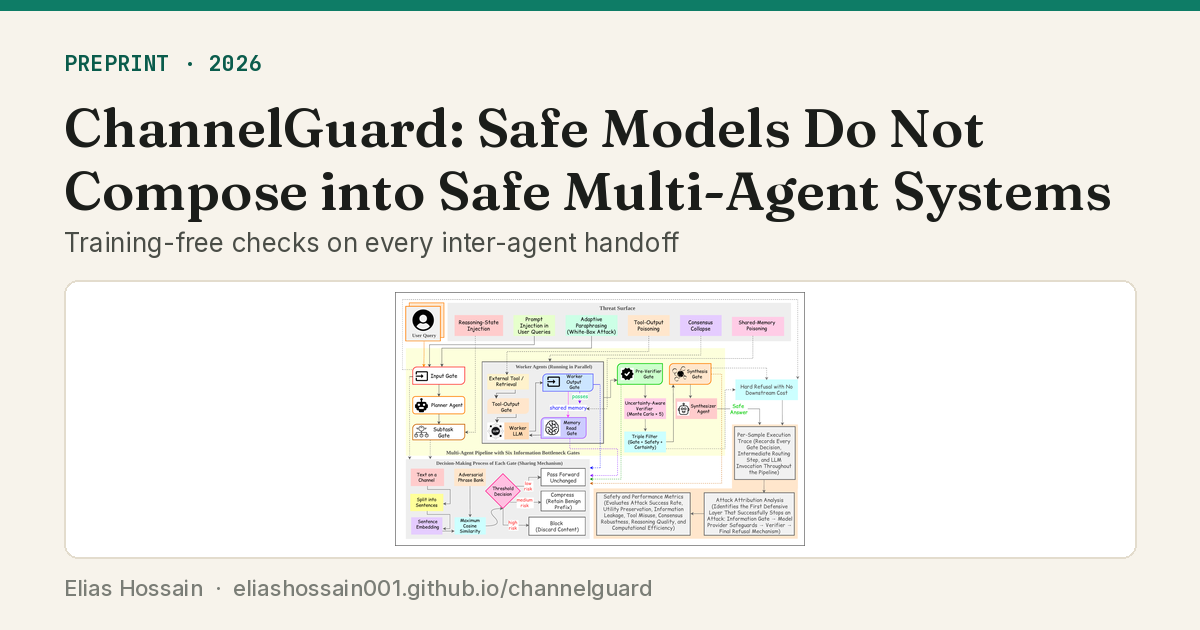
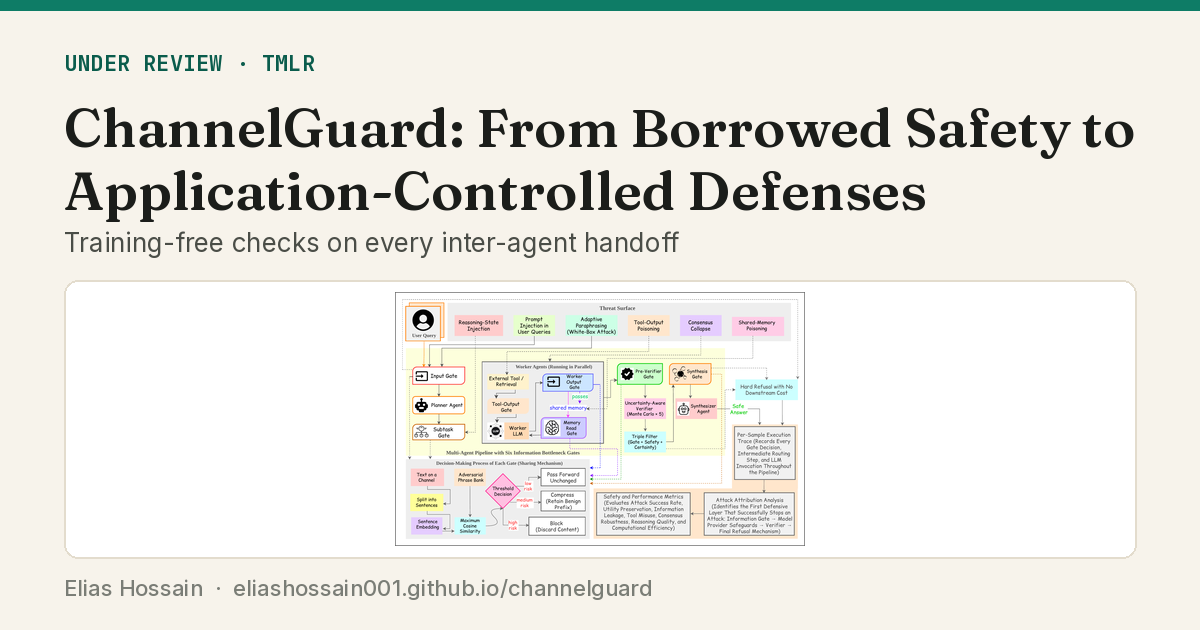
Use UCF email; ChannelGuard title/status match arXiv and CV; arXiv link for Agreement Overstates Evidence

Changed region(s): [[0.0308, 0.1508, 0.9558, 0.3619], [0.0617, 0.0905, 0.2775, 0.1206]]

diff --git a/assets/askr/askr.js b/assets/askr/askr.js
@@ -12,7 +12,7 @@
     { id: 'overview', k: ['research', 'about', 'work on', 'focus', 'interest', 'area', 'topic', 'what does he do', 'summary', 'overview', 'agenda', 'thesis'],
       a: 'Elias works on <b>reliable AI at inference time</b>: methods that make deployed LLMs, LLM judges, and agents trustworthy <b>without retraining them</b>, and careful tests of when that reliability is real. His work has three threads: (1) whether a model knows when it is wrong (uncertainty and calibration), (2) whether agreement among AI judges is real evidence (LLM evaluation), and (3) whether an agent can be stopped before an unsafe action (agent safety). His applied area is clinical and biomedical AI.' },
     { id: 'papers', k: ['paper', 'papers', 'publication', 'publications', 'first-author', 'first author', 'recent', 'published', 'accepted', 'venue', 'conference'],
-      a: 'Recent first-author papers:<br>&bull; <a href="/poe-steering/">When Policies Cannot Be Retrained</a> (<b>NeurIPS 2026</b>, Main Track)<br>&bull; <a href="/uat-lite/">UAT-LITE</a> (<b>EACL 2027</b>, Main Conference)<br>&bull; <a href="/nexus/">NEXUS</a> (Findings of AACL-IJCNLP 2026)<br>&bull; <a href="/Automatic-Jury-Consensus/">Agreement Overstates Evidence</a> (under review)<br>&bull; <a href="/channelguard/">ChannelGuard</a> and <a href="/tas/">Right Knowledge, Wrong Answer</a> (preprints)<br>The full list is on <a href="https://scholar.google.com/citations?user=l0L1NPAAAAAJ" target="_blank" rel="noopener">Google Scholar</a>.' },
+      a: 'Recent first-author papers:<br>&bull; <a href="/poe-steering/">When Policies Cannot Be Retrained</a> (<b>NeurIPS 2026</b>, Main Track)<br>&bull; <a href="/uat-lite/">UAT-LITE</a> (<b>EACL 2027</b>, Main Conference)<br>&bull; <a href="/nexus/">NEXUS</a> (Findings of AACL-IJCNLP 2026)<br>&bull; <a href="/Automatic-Jury-Consensus/">Agreement Overstates Evidence</a> (under review)<br>&bull; <a href="/channelguard/">ChannelGuard</a> (under review at TMLR) and <a href="/tas/">Right Knowledge, Wrong Answer</a> (preprint)<br>The full list is on <a href="https://scholar.google.com/citations?user=l0L1NPAAAAAJ" target="_blank" rel="noopener">Google Scholar</a>.' },
     { id: 'poe', k: ['policies cannot be retrained', 'poe', 'product of experts', 'steering', 'offline rl', 'reinforcement learning', 'frozen policy', 'frozen actor', 'kl', 'robot', 'neurips paper', 'neurips', 'nips'],
       a: '<b>When Policies Cannot Be Retrained</b> (NeurIPS 2026, Main Track) steers a frozen offline-RL policy toward a new goal at deployment, with no retraining. Composing the frozen actor with a goal-conditioned prior as a product of experts gives exactly the same policy as KL-regularized adaptation. Its value is graceful degradation: when the guidance is bad, the policy stays anchored to the original behaviour instead of collapsing. Across 12 benchmark settings it helped in 4, changed nothing in 4, and hurt in 4. <a href="/poe-steering/">Project page</a> &middot; <a href="https://neurips.cc/virtual/2026/loc/atlanta/poster/152992" target="_blank" rel="noopener">poster &amp; slides</a>' },
     { id: 'uat', k: ['uat', 'uat-lite', 'uncertainty', 'calibration', 'eacl', 'calibrated', 'confidence', 'mc dropout', 'monte carlo', 'attention', 'overconfident', 'eacl paper'],
@@ -22,7 +22,7 @@
     { id: 'nexus', k: ['nexus', 'tool', 'tool-using', 'tool use', 'runtime', 'guardrail', 'monitor', 'agent safety', 'unsafe action', 'prompt injection', 'aacl'],
       a: '<b>NEXUS</b> (Findings of AACL-IJCNLP 2026) is a runtime safety monitor for tool-using LLM agents. Before a tool call runs, it reads the structured plan and chooses to allow, block, ask the user, or ask the agent to revise, combining rules, argument inspection, and a calibrated risk score. It reaches 0.949 F1 while adding 0.205 ms median latency, under 0.1% of a typical agent loop. <a href="/nexus/">Project page</a>' },
     { id: 'channelguard', k: ['channelguard', 'multi-agent', 'multi agent', 'pipeline', 'compose', 'borrowed safety', 'provider filter', 'handoff', 'inter-agent'],
-      a: '<b>ChannelGuard</b> (preprint) shows that safe models do not compose into safe multi-agent systems. An undefended pipeline can report zero attack success while 24 of 30 blocks actually come from the cloud provider\'s filter. ChannelGuard adds training-free, application-owned gates on every inter-agent channel: they block all tested tool-poisoning attacks on three backends and halve prompt-injection success, with task accuracy unchanged. <a href="/channelguard/">Project page</a>' },
+      a: '<b>ChannelGuard</b> (under review at TMLR) shows that safe models do not compose into safe multi-agent systems. An undefended pipeline can report zero attack success while 24 of 30 blocks actually come from the cloud provider\'s filter. ChannelGuard adds training-free, application-owned gates on every inter-agent channel: they block all tested tool-poisoning attacks on three backends and halve prompt-injection success, with task accuracy unchanged. <a href="/channelguard/">Project page</a>' },
     { id: 'tas', k: ['temporal', 'right knowledge', 'wrong answer', 'outdated', 'stale', 'parametric', 'knowledge conflict', 'activation patching', 'wikidata', 'interpretability'],
       a: '<b>Right Knowledge, Wrong Answer</b> (preprint) shows that open-weight LLMs often store a newer fact yet answer with the outdated one. Adding a date cue such as "As of 2024" recovers the newer fact in 61&ndash;81% of cases, and patching a single upper layer flips the answer in 72&ndash;85%, so the preference is localized inside the model, not missing knowledge. It uses a verified benchmark of 8,746 Wikidata changes. <a href="/tas/">Project page</a>' },
     { id: 'vlm', k: ['vlm', 'vision', 'vision-language', 'multimodal', 'test-time compute', 'extra compute', 'router', 'routing', 'look', 'think', 'fixable'],
@@ -40,7 +40,7 @@
     { id: 'hire', k: ['hire', 'why', 'strength', 'strengths', 'stand out', 'good fit', 'recommend', 'should someone', 'value', 'impact'],
       a: 'In short: first-author papers at <b>NeurIPS 2026</b> and <b>EACL 2027</b>, three years of production ML before the Ph.D., and a consistent focus on a problem every deployed AI team has, making models they cannot retrain behave reliably. His work is careful about what it does not show: papers report where methods help, do nothing, or hurt, and each comes with code, a project page, and a one-minute video.' },
     { id: 'contact', k: ['contact', 'email', 'reach', 'internship', 'intern', 'hiring', 'available', 'opening', 'job', 'collaborate', 'meet', 'schedule', 'cv', 'resume'],
-      a: 'Elias is <b>seeking Summer 2027 research internships</b> in reliable LLMs, LLM evaluation, and agent safety. Email: <a href="mailto:elias.hossain191@gmail.com">elias.hossain191@gmail.com</a>. His resume is <a href="/cv/resume.pdf?v=20261116b" target="_blank" rel="noopener">here</a>, and he will be at <b>NeurIPS 2026 in Atlanta (Dec 9&ndash;13)</b>, happy to meet.' },
+      a: 'Elias is <b>seeking Summer 2027 research internships</b> in reliable LLMs, LLM evaluation, and agent safety. Email: <a href="mailto:mdelias.hossain@ucf.edu">mdelias.hossain@ucf.edu</a>. His resume is <a href="/cv/resume.pdf?v=20261116b" target="_blank" rel="noopener">here</a>, and he will be at <b>NeurIPS 2026 in Atlanta (Dec 9&ndash;13)</b>, happy to meet.' },
     { id: 'talks', k: ['talk', 'talks', 'present', 'presentation', 'video', 'poster', 'slides', 'mit', 'amazon', 'symposium', 'conference talk'],
       a: 'Recent presentations: the <b>NeurIPS 2026</b> poster (<a href="https://neurips.cc/virtual/2026/loc/atlanta/poster/152992" target="_blank" rel="noopener">poster &amp; slides</a>), multi-agent alignment verification at the <b>Amazon Trusted AI Symposium</b> in New York (2026), and CITE at <b>MIT\'s Molecular Machine Learning Conference</b> (2025). Every paper on the homepage also has a one-minute narrated video.' },
     { id: 'awards', k: ['award', 'awards', 'honor', 'honors', 'prize', 'won', 'competition', 'fellowship', 'nasa', 'ieee', 'hackathon'],
@@ -54,7 +54,7 @@
     ['What did he do before his Ph.D.?', 'experience'],
     ['Why should someone hire him?', 'hire']
   ];
-  var FALLBACK = 'I can only answer from what is on this site, and I could not match that question. Try asking about his research, a specific paper (for example NEXUS or UAT-LITE), his experience, or how to reach him. For anything else, email <a href="mailto:elias.hossain191@gmail.com">elias.hossain191@gmail.com</a>.';
+  var FALLBACK = 'I can only answer from what is on this site, and I could not match that question. Try asking about his research, a specific paper (for example NEXUS or UAT-LITE), his experience, or how to reach him. For anything else, email <a href="mailto:mdelias.hossain@ucf.edu">mdelias.hossain@ucf.edu</a>.';
   var GREET = 'Hi! Ask me anything about <b>Elias Hossain</b>: his research, papers, experience, and background.';
 
   // ---------------------------------------------------------------- matching
@@ -132,7 +132,7 @@
         '<div class="askr-msgs" aria-live="polite"></div>' +
         '<div class="askr-foot"><form class="askr-form"><input class="askr-in" type="text" placeholder="Ask a question..." aria-label="Your question" maxlength="300" />' +
           '<button class="askr-send" type="submit" aria-label="Send"><svg width="17" height="17" viewBox="0 0 24 24" fill="none" stroke="currentColor" stroke-width="2" stroke-linecap="round" stroke-linejoin="round"><path d="M22 2L11 13M22 2l-7 20-4-9-9-4z"/></svg></button></form>' +
-          '<div class="askr-note">Answers come from this site&rsquo;s content. Email <a href="mailto:elias.hossain191@gmail.com">elias.hossain191@gmail.com</a> for anything important.</div></div>' +
+          '<div class="askr-note">Answers come from this site&rsquo;s content. Email <a href="mailto:mdelias.hossain@ucf.edu">mdelias.hossain@ucf.edu</a> for anything important.</div></div>' +
       '</div>';
     document.body.appendChild(root);
     var launch = root.querySelector('.askr-launch'), msgs = root.querySelector('.askr-msgs'),

diff --git a/index.html b/index.html
@@ -2465,7 +2465,7 @@
   <div class="nav-inner">
     <div class="nav-left">
       <div class="nav-icons">
-        <a href="mailto:elias.hossain191@gmail.com" title="Email">
+        <a href="mailto:mdelias.hossain@ucf.edu" title="Email">
           <svg viewBox="0 0 24 24" fill="none" stroke="currentColor" stroke-width="2"><path d="M4 4h16c1.1 0 2 .9 2 2v12c0 1.1-.9 2-2 2H4c-1.1 0-2-.9-2-2V6c0-1.1.9-2 2-2z"/><polyline points="22,6 12,13 2,6"/></svg>
         </a>
         <a href="https://scholar.google.com/citations?user=l0L1NPAAAAAJ" target="_blank" rel="noopener" title="Google Scholar">
@@ -2511,7 +2511,7 @@
           <div>
             <h1 class="idc-name">Elias <b>Hossain</b></h1>
             <p class="idc-role">PhD Candidate &middot; UCF</p>
-            <p class="idc-mail"><a href="mailto:elias.hossain191@gmail.com">elias.hossain191@gmail.com</a></p>
+            <p class="idc-mail"><a href="mailto:mdelias.hossain@ucf.edu">mdelias.hossain@ucf.edu</a></p>
             <div class="idc-act">
               <a class="btn-badge" href="/cv/resume.pdf?v=20261116b" target="_blank" rel="noopener">Resume</a>
               <a class="btn-badge" href="https://scholar.google.com/citations?user=l0L1NPAAAAAJ" target="_blank" rel="noopener">Google Scholar</a>
@@ -2575,7 +2575,7 @@
             <li>NeurIPS 2026 in Atlanta, GA <span>(Dec 9&ndash;13)</span></li>
             <li>Presenting <a href="/poe-steering/">When Policies Cannot Be Retrained</a> (poster).</li>
           </ul>
-          <p class="travel-meet">&#128075; I&rsquo;m open to meet! <a href="mailto:elias.hossain191@gmail.com?subject=Meeting%20at%20NeurIPS%202026">Email me</a> to schedule a chat.</p>
+          <p class="travel-meet">&#128075; I&rsquo;m open to meet! <a href="mailto:mdelias.hossain@ucf.edu?subject=Meeting%20at%20NeurIPS%202026">Email me</a> to schedule a chat.</p>
         </div>
       </div>
     </aside>
@@ -2585,13 +2585,13 @@
       <ul class="ra">
         <li><span class="h">Uncertainty &amp; Calibration</span> <span class="p"><span class="i"><a href="/uat-lite/">UAT-LITE</a><span class="v">(EACL 2027)</span></span><span class="i"><a href="/tas/">Right Knowledge, Wrong Answer</a><span class="v">(Preprint)</span></span></span></li>
         <li><span class="h">LLM Judges &amp; Evaluation</span> <span class="p"><span class="i"><a href="/Automatic-Jury-Consensus/">Agreement Overstates Evidence</a><span class="v">(Under review)</span></span><span class="i"><a href="/mpv/">Multi-Agent Verification</a><span class="v">(ICLR 2026 Workshop)</span></span></span></li>
-        <li><span class="h">Agent Safety</span> <span class="p"><span class="i"><a href="/nexus/">NEXUS</a><span class="v">(AACL 2026)</span></span><span class="i"><a href="/channelguard/">ChannelGuard</a><span class="v">(Preprint)</span></span></span></li>
+        <li><span class="h">Agent Safety</span> <span class="p"><span class="i"><a href="/nexus/">NEXUS</a><span class="v">(AACL 2026)</span></span><span class="i"><a href="/channelguard/">ChannelGuard</a><span class="v">(Under review)</span></span></span></li>
         <li><span class="h">Post-Training &amp; RL</span> <span class="p"><span class="i"><a href="/poe-steering/">When Policies Cannot Be Retrained</a><span class="v">(NeurIPS 2026)</span></span></span></li>
         <li><span class="h">Adaptive Compute for VLMs</span> <span class="p"><span class="i"><a href="/look-think/">When Does Extra Compute Help?</a><span class="v">(Under review)</span></span></span></li>
         <li><span class="h">Clinical &amp; Biomedical AI</span> <span class="p"><span class="i"><a href="/biogen/">BIOGEN</a><span class="v">(Frontiers 2026)</span></span><span class="i"><a href="/carebench/">CareBench</a><span class="v">(Benchmark)</span></span></span></li>
       </ul>
 
-      <div class="ann">&#128226; Ph.D. candidate (expected May 2028) &middot; actively seeking <strong>Summer 2027 research internships</strong> in reliable LLMs, LLM evaluation, and agent safety. Please <a href="mailto:elias.hossain191@gmail.com?subject=Research%20internship">reach out</a> if you have an opening.</div>
+      <div class="ann">&#128226; Ph.D. candidate (expected May 2028) &middot; actively seeking <strong>Summer 2027 research internships</strong> in reliable LLMs, LLM evaluation, and agent safety. Please <a href="mailto:mdelias.hossain@ucf.edu?subject=Research%20internship">reach out</a> if you have an opening.</div>
 
       <h2 class="sec" id="news">Recent News <small>(<a href="#" id="newsAll">See All</a>)</small></h2>
       <table class="newsT">
@@ -2728,6 +2728,7 @@
               <p class="pub-plain"><span class="pub-plain-k">In short</span>When several AI models grade the same answers, their agreement looks like strong evidence. But they tend to make the same mistakes, so ten AI judges carry roughly the information of three or four independent ones, and ignoring this can change a study's conclusions.</p>
               <details class="pub-tech"><summary>Technical summary</summary><p class="pub-desc">Consensus among LLM judges assumes they fail independently. They do not: in a ten-judge bank the mean error correlation is 0.21, so the votes carry the evidence of about 3.5 independent judges, frontier judges from different providers are even more correlated (0.56), and ignoring the dependence flips significance conclusions in up to 28% of comparisons. Changing the voting rule is not a reliable fix, even when the error pattern is known, so the correction belongs in the statistical inference.</p></details>
               <div class="pub-links">
+                <a class="pub-pill" href="https://arxiv.org/abs/2609.22512" target="_blank" rel="noopener">ARXIV</a>
                 <button type="button" class="pub-pill pub-explain" data-video="ajc">&#9654; 1-MIN VIDEO</button>
                 <a class="pub-pill pub-explain" href="/Automatic-Jury-Consensus/#idea">TRY IT</a>
                 <a class="pub-pill" href="/Automatic-Jury-Consensus/">PROJECT</a>
@@ -2799,9 +2800,9 @@
               <span class="pub-fig-zoom">Full figure</span>
             </div>
             <div class="pub-info">
-              <h3>ChannelGuard: Safe Models Do Not Compose into Safe Multi-Agent Systems</h3>
+              <h3>ChannelGuard: From Borrowed Safety to Application-Controlled Defenses in Multi-Agent LLMs</h3>
               <div class="pub-authors"><strong>E. Hossain</strong>, M. M. H. Nipu, F. T. J. Faria, T. N. Ornee, M. Sheikh</div>
-              <div class="pub-venue-line">Preprint, 2026</div>
+              <div class="pub-venue-line">Under review at TMLR</div>
               <p class="pub-plain"><span class="pub-plain-k">In short</span>AI systems built from several cooperating models pass messages to each other. Many such pipelines look safe only because the cloud provider filters content; we add checks on every hand-off that the application controls itself.</p>
               <details class="pub-tech"><summary>Technical summary</summary><p class="pub-desc">Across 2,100 test cases and eight attack families, the apparent safety of multi-agent LLM pipelines often rests on opaque provider filters rather than the system itself. ChannelGuard places training-free information-bottleneck gates on every inter-agent channel, blocking tool-output poisoning outright and halving prompt-injection success while holding task accuracy at 0.867.</p></details>
               <div class="pub-links">
@@ -2810,7 +2811,7 @@
                 <a class="pub-pill" href="/channelguard/">PROJECT</a>
                 <button class="pub-pill pub-bibtex-btn" type="button">BIBTEX</button>
                 <pre class="pub-bibtex-text" hidden>@article{hossain2026channelguard,
-  title={ChannelGuard: Safe Models Do Not Compose into Safe Multi-Agent Systems},
+  title={ChannelGuard: From Borrowed Safety to Application-Controlled Defenses in Multi-Agent LLMs},
   author={Hossain, Elias and Nipu, Md Mehedi Hasan and Faria, Fatema Tuj Johora and Ornee, Tasfia Nuzhat and Sheikh, Maleeha},
   journal={arXiv preprint arXiv:2607.19430},
   year={2026}
@@ -2995,7 +2996,7 @@
     <div class="mentee2"><div class="mname"><a href="https://scholar.google.com/citations?user=ToPoa3EAAAAJ&amp;hl=en" target="_blank" rel="noopener">Md Mehedi Hasan Nipu<svg class="exti" viewBox="0 0 24 24" fill="none" stroke="currentColor" stroke-width="2" stroke-linecap="round" stroke-linejoin="round" aria-hidden="true"><path d="M14 4h6v6"/><path d="M20 4l-9 9"/><path d="M18 14v5a1 1 0 0 1-1 1H5a1 1 0 0 1-1-1V7a1 1 0 0 1 1-1h5"/></svg></a> <span class="mnote">Graduate Student, North South University &middot; 2025 &ndash; Present</span></div>
       <ul class="mp">
         <li><a href="/nexus/" >NEXUS: Structured Runtime Safety for Tool-Using LLM Agents</a> <span class="mv">- Findings of AACL-IJCNLP 2026</span></li>
-        <li><a href="/channelguard/" >ChannelGuard: Safe Models Do Not Compose into Safe Multi-Agent Systems</a> <span class="mv">- Preprint</span></li>
+        <li><a href="/channelguard/" >ChannelGuard: From Borrowed Safety to Application-Controlled Defenses in Multi-Agent LLMs</a> <span class="mv">- Under review at TMLR</span></li>
         <li><a href="#publications" >Safe and Scalable Collaboration in Multiagent LLM Systems: A Comprehensive Review</a> <span class="mv">- IEEE Transactions on Systems, Man, and Cybernetics: Systems 2026</span></li>
       </ul>
     </div>

diff --git a/channelguard/index.html b/channelguard/index.html
@@ -3,7 +3,7 @@
 <head>
 <meta charset="UTF-8" />
 <meta name="viewport" content="width=device-width, initial-scale=1.0" />
-<title>ChannelGuard · Safe Models Do Not Compose into Safe Multi-Agent Systems</title>
+<title>ChannelGuard · From Borrowed Safety to Application-Controlled Defenses in Multi-Agent LLMs</title>
 <meta name="description" content="Multi-agent LLM pipelines leave every inter-agent hop unmonitored. ChannelGuard places training-free information-bottleneck gates on all six channels, and per-trace attribution shows how much of an undefended pipeline's apparent safety is really borrowed from the cloud provider's filter." />
 <link rel="preconnect" href="https://fonts.googleapis.com" />
 <link rel="preconnect" href="https://fonts.gstatic.com" crossorigin />
@@ -457,18 +457,18 @@
 <!-- Link previews and search metadata -->
 <meta property="og:type" content="article" />
 <meta property="og:site_name" content="Elias Hossain" />
-<meta property="og:title" content="ChannelGuard · Safe Models Do Not Compose into Safe Multi-Agent Systems" />
+<meta property="og:title" content="ChannelGuard · From Borrowed Safety to Application-Controlled Defenses in Multi-Agent LLMs" />
 <meta property="og:description" content="Multi-agent LLM pipelines leave every inter-agent hop unmonitored. ChannelGuard places training-free information-bottleneck gates on all six channels, and per-trace attribution shows how much of an undefended pipeline&#x27;s apparent safety is really borrowed from the cloud provider&#x27;s filter." />
 <meta property="og:url" content="https://eliashossain001.github.io/channelguard/" />
 <meta property="og:image" content="https://eliashossain001.github.io/channelguard/assets/og.png" />
 <meta property="og:image:width" content="1200" />
 <meta property="og:image:height" content="630" />
 <meta name="twitter:card" content="summary_large_image" />
-<meta name="twitter:title" content="ChannelGuard · Safe Models Do Not Compose into Safe Multi-Agent Systems" />
+<meta name="twitter:title" content="ChannelGuard · From Borrowed Safety to Application-Controlled Defenses in Multi-Agent LLMs" />
 <meta name="twitter:description" content="Multi-agent LLM pipelines leave every inter-agent hop unmonitored. ChannelGuard places training-free information-bottleneck gates on all six channels, and per-trace attribution shows how much of an undefended pipeline&#x27;s apparent safety is really borrowed from the cloud provider&#x27;s filter." />
 <meta name="twitter:image" content="https://eliashossain001.github.io/channelguard/assets/og.png" />
 <link rel="canonical" href="https://eliashossain001.github.io/channelguard/" />
-<script type="application/ld+json">{"@context": "https://schema.org", "@type": "ScholarlyArticle", "url": "https://eliashossain001.github.io/channelguard/", "headline": "ChannelGuard: Safe Models Do Not Compose into Safe Multi-Agent Systems", "author": [{"@type": "Person", "name": "Elias Hossain"}, {"@type": "Person", "name": "Md Mehedi Hasan Nipu"}, {"@type": "Person", "name": "Fatema Tuj Johora Faria"}, {"@type": "Person", "name": "Tasfia Nuzhat Ornee"}, {"@type": "Person", "name": "Maleeha Sheikh"}], "sameAs": "https://arxiv.org/abs/2607.19430"}</script>
+<script type="application/ld+json">{"@context": "https://schema.org", "@type": "ScholarlyArticle", "url": "https://eliashossain001.github.io/channelguard/", "headline": "ChannelGuard: From Borrowed Safety to Application-Controlled Defenses in Multi-Agent LLMs", "author": [{"@type": "Person", "name": "Elias Hossain"}, {"@type": "Person", "name": "Md Mehedi Hasan Nipu"}, {"@type": "Person", "name": "Fatema Tuj Johora Faria"}, {"@type": "Person", "name": "Tasfia Nuzhat Ornee"}, {"@type": "Person", "name": "Maleeha Sheikh"}], "sameAs": "https://arxiv.org/abs/2607.19430"}</script>
 <link rel="stylesheet" href="/assets/explainers/explainers.css?v=7" />
 </head>
 <body>
@@ -523,8 +523,8 @@
             stroke="#e85a4f" stroke-width="0.11" stroke-linecap="round"/>
     </svg>
   </div>
-  <div class="venue-badge fade-in">Preprint · arXiv 2026</div>
-  <h1 class="fade-in"><span class="brand-text">ChannelGuard</span>: Safe Models Do Not<br>Compose into Safe Multi-Agent Systems</h1>
+  <div class="venue-badge fade-in">Under Review · TMLR</div>
+  <h1 class="fade-in"><span class="brand-text">ChannelGuard</span>: From Borrowed Safety to<br>Application-Controlled Defenses in Multi-Agent LLMs</h1>
   <p class="authors fade-in">
     Elias Hossain<sup>1</sup>, Md Mehedi Hasan Nipu<sup>2</sup>, Fatema Tuj Johora Faria<sup>3</sup>, Tasfia Nuzhat Ornee<sup>1</sup>, Maleeha Sheikh<sup>4</sup>
   </p>
@@ -750,8 +750,8 @@
   <h2 class="section-title fade-in">Cite ChannelGuard</h2>
   <p class="section-desc fade-in">If you find ChannelGuard or the per-trace attribution methodology useful in your research, please consider citing the paper.</p>
   <div class="citation-block fade-in" id="bibtex"><button class="copy-btn" onclick="copyBib()">Copy BibTeX</button>@article{hossain2026channelguard,
-  title         = {ChannelGuard: Safe Models Do Not Compose into Safe
-                   Multi-Agent Systems},
+  title         = {ChannelGuard: From Borrowed Safety to Application-Controlled
+                   Defenses in Multi-Agent LLMs},
   author        = {Hossain, Elias and Nipu, Md Mehedi Hasan
                    and Faria, Fatema Tuj Johora and Ornee, Tasfia Nuzhat
                    and Sheikh, Maleeha},

diff --git a/uat-lite/index.html b/uat-lite/index.html
@@ -536,7 +536,7 @@
 <nav class="nav">
   <div class="nav-inner">
     <div class="nav-icons">
-      <a href="mailto:elias.hossain191@gmail.com" title="Email"><svg viewBox="0 0 24 24" fill="none" stroke="currentColor" stroke-width="2"><path d="M4 4h16c1.1 0 2 .9 2 2v12c0 1.1-.9 2-2 2H4c-1.1 0-2-.9-2-2V6c0-1.1.9-2 2-2z"/><polyline points="22,6 12,13 2,6"/></svg></a>
+      <a href="mailto:mdelias.hossain@ucf.edu" title="Email"><svg viewBox="0 0 24 24" fill="none" stroke="currentColor" stroke-width="2"><path d="M4 4h16c1.1 0 2 .9 2 2v12c0 1.1-.9 2-2 2H4c-1.1 0-2-.9-2-2V6c0-1.1.9-2 2-2z"/><polyline points="22,6 12,13 2,6"/></svg></a>
       <a href="https://scholar.google.com/citations?user=l0L1NPAAAAAJ" target="_blank" rel="noopener" title="Scholar"><svg viewBox="0 0 24 24" fill="currentColor"><path d="M5.242 13.769L0 9.5 12 0l12 9.5-5.242 4.269C17.548 11.249 14.978 9.5 12 9.5c-2.977 0-5.548 1.748-6.758 4.269zM12 10a7 7 0 1 0 0 14 7 7 0 0 0 0-14z"/></svg></a>
       <a href="https://github.com/eliashossain001" target="_blank" rel="noopener" title="GitHub"><svg viewBox="0 0 24 24" fill="none" stroke="currentColor" stroke-width="2"><path d="M9 19c-5 1.5-5-2.5-7-3m14 6v-3.87a3.37 3.37 0 0 0-.94-2.61c3.14-.35 6.44-1.54 6.44-7A5.44 5.44 0 0 0 20 4.77 5.07 5.07 0 0 0 19.91 1S18.73.65 16 2.48a13.38 13.38 0 0 0-7 0C6.27.65 5.09 1 5.09 1A5.07 5.07 0 0 0 5 4.77a5.44 5.44 0 0 0-1.5 3.78c0 5.42 3.3 6.61 6.44 7A3.37 3.37 0 0 0 9 18.13V22"/></svg></a>
       <a href="https://www.linkedin.com/in/elias-hossain-7448a736a/" target="_blank" rel="noopener" title="LinkedIn"><svg viewBox="0 0 24 24" fill="currentColor"><path d="M19 3a2 2 0 0 1 2 2v14a2 2 0 0 1-2 2H5a2 2 0 0 1-2-2V5a2 2 0 0 1 2-2h14m-.5 15.5v-5.3a3.26 3.26 0 0 0-3.26-3.26c-.85 0-1.84.52-2.32 1.3v-1.11h-2.79v8.37h2.79v-4.93c0-.77.62-1.4 1.39-1.4a1.4 1.4 0 0 1 1.4 1.4v4.93h2.79M6.88 8.56a1.68 1.68 0 0 0 1.68-1.68c0-.93-.75-1.69-1.68-1.69a1.69 1.69 0 0 0-1.69 1.69c0 .93.76 1.68 1.69 1.68m1.39 9.94v-8.37H5.5v8.37h2.77z"/></svg></a>
@@ -834,7 +834,7 @@ u = out[<span class="s">"token_uncertainty"</span>]                             
           <img src="https://github.com/eliashossain001.png" alt="Elias Hossain">
           <div class="who"><strong>Elias Hossain</strong><br>
           <span>PhD Candidate, Complex Adaptive Systems Lab, University of Central Florida</span><br>
-          <a href="mailto:elias.hossain191@gmail.com">elias.hossain191@gmail.com</a> · <a href="https://github.com/eliashossain001/uat-lite/issues" target="_blank" rel="noopener">open an issue</a></div>
+          <a href="mailto:mdelias.hossain@ucf.edu">mdelias.hossain@ucf.edu</a> · <a href="https://github.com/eliashossain001/uat-lite/issues" target="_blank" rel="noopener">open an issue</a></div>
         </div>
     </div>
   </div>

diff --git a/poe-steering/index.html b/poe-steering/index.html
@@ -711,7 +711,7 @@
 <nav class="nav">
   <div class="nav-inner">
     <div class="nav-icons">
-      <a href="mailto:elias.hossain191@gmail.com" title="Email"><svg viewBox="0 0 24 24" fill="none" stroke="currentColor" stroke-width="2"><path d="M4 4h16c1.1 0 2 .9 2 2v12c0 1.1-.9 2-2 2H4c-1.1 0-2-.9-2-2V6c0-1.1.9-2 2-2z"/><polyline points="22,6 12,13 2,6"/></svg></a>
+      <a href="mailto:mdelias.hossain@ucf.edu" title="Email"><svg viewBox="0 0 24 24" fill="none" stroke="currentColor" stroke-width="2"><path d="M4 4h16c1.1 0 2 .9 2 2v12c0 1.1-.9 2-2 2H4c-1.1 0-2-.9-2-2V6c0-1.1.9-2 2-2z"/><polyline points="22,6 12,13 2,6"/></svg></a>
       <a href="https://scholar.google.com/citations?user=l0L1NPAAAAAJ" target="_blank" rel="noopener" title="Scholar"><svg viewBox="0 0 24 24" fill="currentColor"><path d="M5.242 13.769L0 9.5 12 0l12 9.5-5.242 4.269C17.548 11.249 14.978 9.5 12 9.5c-2.977 0-5.548 1.748-6.758 4.269zM12 10a7 7 0 1 0 0 14 7 7 0 0 0 0-14z"/></svg></a>
       <a href="https://github.com/eliashossain001" target="_blank" rel="noopener" title="GitHub"><svg viewBox="0 0 24 24" fill="none" stroke="currentColor" stroke-width="2"><path d="M9 19c-5 1.5-5-2.5-7-3m14 6v-3.87a3.37 3.37 0 0 0-.94-2.61c3.140-.35 6.44-1.54 6.44-7A5.440 5.440 0 0 0 20 4.77 5.07 5.07 0 0 0 19.91 1S18.73.65 16 2.48a13.38 13.38 0 0 0-7 0C6.27.65 5.09 1 5.09 1A5.07 5.07 0 0 0 5 4.77a5.44 5.44 0 0 0-1.5 3.78c0 5.42 3.3 6.61 6.44 7A3.37 3.37 0 0 0 9 18.13V22"/></svg></a>
       <a href="https://www.linkedin.com/in/elias-hossain-7448a736a/" target="_blank" rel="noopener" title="LinkedIn"><svg viewBox="0 0 24 24" fill="currentColor"><path d="M19 3a2 2 0 0 1 2 2v14a2 2 0 0 1-2 2H5a2 2 0 0 1-2-2V5a2 2 0 0 1 2-2h14m-.5 15.5v-5.3a3.26 3.26 0 0 0-3.26-3.26c-.85 0-1.84.52-2.320 1.3v-1.11h-2.79v8.37h2.79v-4.93c0-.77.62-1.4 1.39-1.4a1.4 1.4 0 0 1 1.4 1.4v4.93h2.79M6.88 8.56a1.68 1.68 0 0 0 1.68-1.68c0-.93-.75-1.69-1.68-1.69a1.69 1.69 0 0 0-1.69 1.69c0 .93.76 1.68 1.69 1.68m1.39 9.94v-8.37H5.5v8.37h2.77z"/></svg></a>
